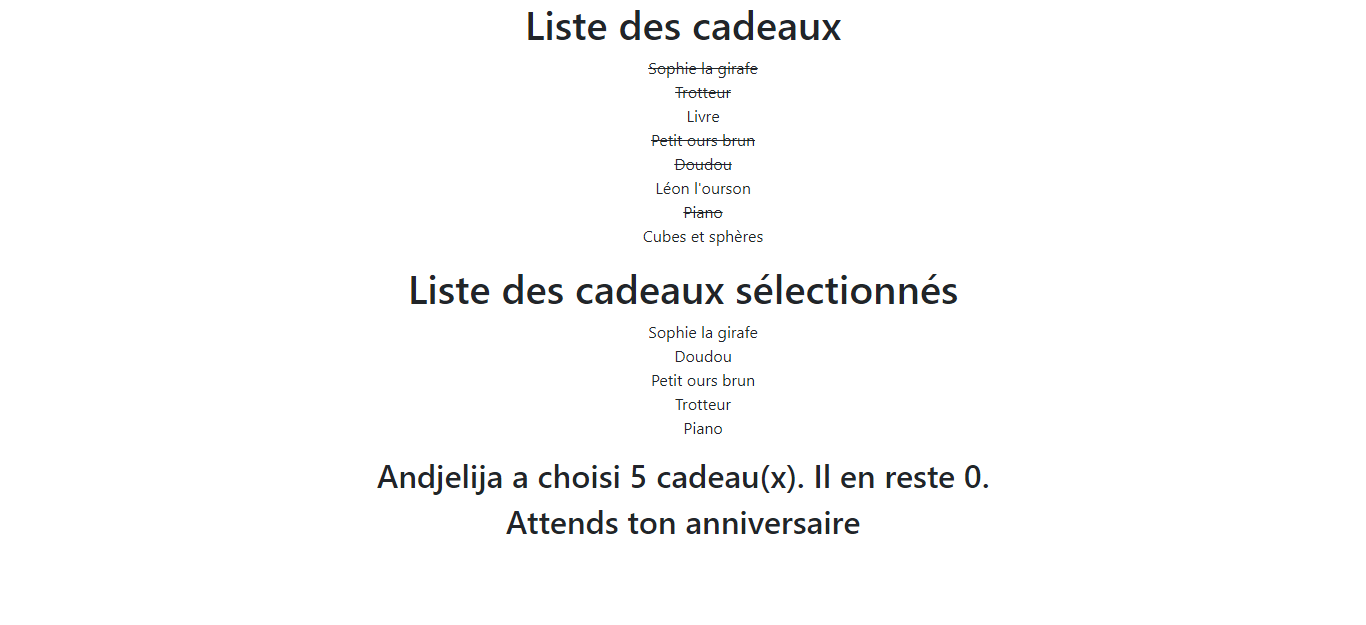
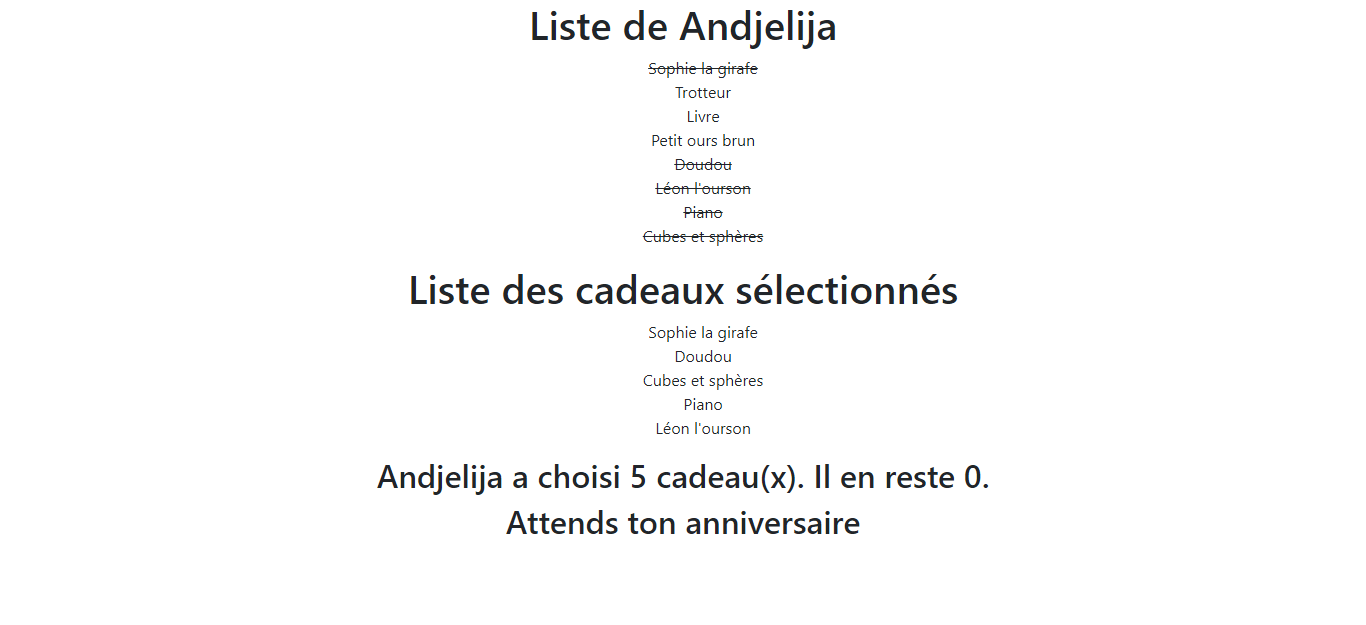
update

Changed region(s): [[0.369, 0.0, 0.6149, 0.0912], [0.4612, 0.5776, 0.5534, 0.6992]]

diff --git a/html-css/10-bootstrap/maquettes/maquette04/index.html b/html-css/10-bootstrap/maquettes/maquette04/index.html
@@ -9,7 +9,7 @@
   </head>
   <body>
     <div class="page">
-      <h1>Liste des cadeaux</h1>
+      <h1>Liste de Andjelija</h1>
       <ul class="cadeaux">
         <li class="li">Sophie la girafe</li>
         <li class="li">Trotteur</li>

diff --git a/javascript/11-tp/cadeaux/index.html b/javascript/11-tp/cadeaux/index.html
@@ -9,7 +9,7 @@
   </head>
   <body>
     <div class="page">
-      <h1>Liste des cadeaux</h1>
+      <h1>Liste de Andjelija</h1>
       <ul class="cadeaux">
         <li class="li">Sophie la girafe</li>
         <li class="li">Trotteur</li>
